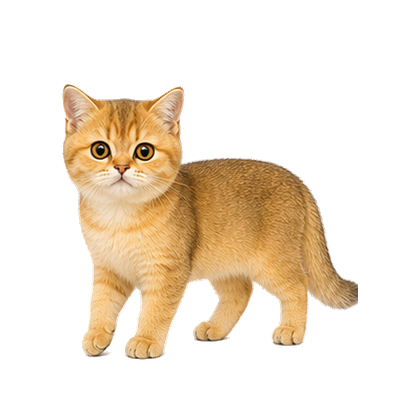
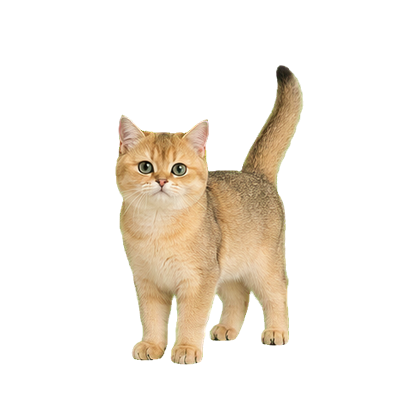
Regenerate cat action sprites and enlarge pet

Changed region(s): [[0.1238, 0.1548, 0.8667, 0.8667]]

diff --git a/src/pet.css b/src/pet.css
@@ -34,15 +34,15 @@ body {
   pointer-events: auto;
   cursor: pointer;
   opacity: 1;
-  filter: drop-shadow(0 13px 16px rgba(31, 37, 40, 0.22));
+  filter: none;
   transform: scaleX(var(--pet-face));
   transform-origin: 50% 78%;
   transition: opacity 260ms ease;
 }
 
 .pet-image.is-walking {
-  width: 38%;
-  height: 38%;
+  width: 85%;
+  height: 85%;
   transform: translateX(var(--pet-walk-shift)) scaleX(var(--pet-face));
 }
 

diff --git a/src/pet.js b/src/pet.js
@@ -12,12 +12,12 @@ const options = {
 };
 
 const sizeMap = {
-  small: 150,
-  medium: 190,
-  large: 235,
+  small: 600,
+  medium: 760,
+  large: 940,
 };
 
-const WALK_SCALE = 3.6;
+const WALK_SCALE = 1.6;
 const WALK_IN_PLACE_DURATION_RANGE = [3800, 5200];
 const IDLE_DELAY_RANGE = [60000, 90000];
 const WALK_FRAME_INTERVAL = 480;
